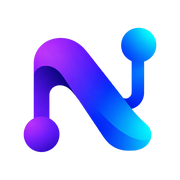
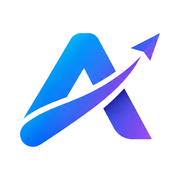
Rebrand from Nexora to Archpilot
Replace the Nexora logo with the Archpilot logo (A mark with flight arrow) and rename
the product across the app:

- brand/: original artwork, full logo, mark, wordmark and Night-mode variants (navy
  letters lightened); transparent backgrounds cut from the supplied image.
- Web app: header, sign-in page, favicons, page title and status bar; descriptor is now
  "AI-powered solution architecture advisor".
- Exports: DOCX/PDF credit and mark next to the Searce logo.
- Backend greeting, API and CLI titles; README.

diff --git a/frontend/src/components/Brand.tsx b/frontend/src/components/Brand.tsx
@@ -1,20 +1,20 @@
-// The Nexora logo. Artwork (and the original file) lives in /brand; the web copies are in /public.
+// The Archpilot logo. Artwork (and the original file) lives in /brand; the web copies are in /public.
 // The wordmark has a Night-mode variant whose navy letters are lightened to stay readable.
 
-export const PRODUCT_NAME = "Nexora";
-export const PRODUCT_DESCRIPTOR = "AI solution architecture advisor";
+export const PRODUCT_NAME = "Archpilot";
+export const PRODUCT_DESCRIPTOR = "AI-powered solution architecture advisor";
 
-/** The N mark (square image). */
-export function NexoraMark({ size = 32 }: { size?: number }) {
-  return <img className="brand-mark" src="/nexora-mark.png" width={size} height={size} alt="" />;
+/** The "A" mark with the flight arrow (square image). */
+export function ArchpilotMark({ size = 32 }: { size?: number }) {
+  return <img className="brand-mark" src="/archpilot-mark.png" width={size} height={size} alt="" />;
 }
 
-/** The "Nexora" wordmark; CSS shows the artwork that matches the Normal/Night mode. */
+/** The "Archpilot" wordmark; CSS shows the artwork that matches the Normal/Night mode. */
 export function Wordmark({ height = 24 }: { height?: number }) {
   return (
     <span className="wordmark" role="img" aria-label={PRODUCT_NAME}>
-      <img className="wordmark-light" src="/nexora-wordmark.png" alt="" style={{ height, width: "auto" }} />
-      <img className="wordmark-dark" src="/nexora-wordmark-dark.png" alt="" style={{ height, width: "auto" }} />
+      <img className="wordmark-light" src="/archpilot-wordmark.png" alt="" style={{ height, width: "auto" }} />
+      <img className="wordmark-dark" src="/archpilot-wordmark-dark.png" alt="" style={{ height, width: "auto" }} />
     </span>
   );
 }
@@ -23,7 +23,7 @@ export function Wordmark({ height = 24 }: { height?: number }) {
 export function BrandLockup({ descriptor = true }: { descriptor?: boolean }) {
   return (
     <span className="brand">
-      <span className="brand-tile"><NexoraMark size={26} /></span>
+      <span className="brand-tile"><ArchpilotMark size={30} /></span>
       <span className="brand-text">
         <Wordmark height={20} />
         {descriptor && <span className="brand-descriptor">{PRODUCT_DESCRIPTOR}</span>}

diff --git a/frontend/index.html b/frontend/index.html
@@ -7,7 +7,7 @@
     <link rel="icon" type="image/png" sizes="32x32" href="/favicon-32.png" />
     <link rel="apple-touch-icon" href="/apple-touch-icon.png" />
     <meta name="theme-color" content="#080B22" />
-    <meta name="description" content="Nexora turns a client requirement into a reviewed solution architecture, team, estimate and timeline." />
+    <meta name="description" content="Archpilot turns a client requirement into a reviewed solution architecture, team, estimate and timeline." />
     <link rel="preconnect" href="https://fonts.googleapis.com" />
     <link rel="preconnect" href="https://fonts.gstatic.com" crossorigin />
     <link rel="stylesheet"
@@ -21,7 +21,7 @@
         document.documentElement.dataset.theme = t;
       })();
     </script>
-    <title>Nexora · AI solution architecture advisor</title>
+    <title>Archpilot · AI-powered solution architecture advisor</title>
   </head>
   <body>
     <div id="root"></div>

diff --git a/frontend/src/components/LoginPage.tsx b/frontend/src/components/LoginPage.tsx
@@ -1,6 +1,6 @@
 import { useState } from "react";
 import { authApi, ROLES, type AuthConfig, type Role, type User } from "../api";
-import { NexoraMark, PRODUCT_DESCRIPTOR, Wordmark } from "./Brand";
+import { ArchpilotMark, PRODUCT_DESCRIPTOR, Wordmark } from "./Brand";
 import { Icon, Spinner } from "./Icon";
 
 const ERRORS: Record<string, string> = {
@@ -53,7 +53,7 @@ export function LoginPage({ config, error, onSignedIn }: Props) {
   return (
     <div className="login-wrap">
       <section className="card login" aria-labelledby="login-title">
-        <span className="login-logo"><NexoraMark size={88} /></span>
+        <span className="login-logo"><ArchpilotMark size={96} /></span>
         <h1 id="login-title" className="login-wordmark"><Wordmark height={44} /></h1>
         <p className="login-descriptor">{PRODUCT_DESCRIPTOR}</p>
         <p className="muted">Sign in with your {domain} Google Workspace account.</p>

diff --git a/frontend/src/styles.css b/frontend/src/styles.css
@@ -1,6 +1,6 @@
 /* "Cyber Mission Control" design from Stitch (design/stitch/DESIGN.md).
-   Brand spectrum from the Nexora logo: magenta #BB33FD, violet #6317EE, indigo #2F2AFD,
-   azure #0091FD, cyan #00E1FE. Normal (light) and Night (dark) modes are switched with
+   Brand spectrum: magenta #BB33FD, violet #6317EE, indigo #2F2AFD, azure #0091FD,
+   cyan #00E1FE; it sits alongside the Archpilot logo's sky-blue to violet gradient. Normal (light) and Night (dark) modes are switched with
    <html data-theme>; text and button pairs are checked for WCAG AA (4.5:1) in both. */
 :root {
   --brand-magenta: #BB33FD;

diff --git a/frontend/src/App.tsx b/frontend/src/App.tsx
@@ -331,7 +331,7 @@ export default function App() {
           <span className={`dot ${apiDown ? "warn" : "ok"}`} /> Advisor API: {apiDown ? "unreachable" : "online"}
         </span>
         {health && <span className="statusbar-extra">model: {activeProvider || health.provider} · log: {health.database}</span>}
-        <span className="statusbar-right">Nexora · by Searce</span>
+        <span className="statusbar-right">Archpilot · by Searce</span>
       </footer>
     </div>
   );

diff --git a/backend/advisor/orchestrator.py b/backend/advisor/orchestrator.py
@@ -78,7 +78,7 @@ class AdvisorOrchestrator(BaseAgent):
                  specialists: dict[str, LlmAgent]):
         super().__init__(
             name=name,
-            description="Nexora AI solution architecture advisor coordinator",
+            description="Archpilot AI-powered solution architecture advisor coordinator",
             analyzer=analyzer,
             reviewer=reviewer,
             estimator=estimator,
@@ -165,7 +165,7 @@ class AdvisorOrchestrator(BaseAgent):
         if analysis.get("is_requirement") is False:
             yield self._say(
                 ctx,
-                "Hi! I'm Nexora, your AI solution architecture advisor. Describe what you want to build "
+                "Hi! I'm Archpilot, your AI-powered solution architecture advisor. Describe what you want to build "
                 "and I'll analyse it, run the relevant specialist agents, review the design and "
                 "return a recommendation.\n\nFor example: *\"I need a responsive company website "
                 "with Home, About and Contact pages. Frontend only.\"*",

diff --git a/backend/advisor/export.py b/backend/advisor/export.py
@@ -19,8 +19,8 @@ from pathlib import Path
 # ------------------------------------------------------------------ branding
 LOGO = Path(__file__).parent / "assets" / "searce_logo.png"
 # Product credit in the header's right corner (the Searce logo stays the main mark on client documents).
-PRODUCT_MARK = Path(__file__).parent / "assets" / "nexora_mark.png"
-PRODUCT_CREDIT = "Nexora · AI solution architecture advisor"
+PRODUCT_MARK = Path(__file__).parent / "assets" / "archpilot_mark.png"
+PRODUCT_CREDIT = "Archpilot · AI-powered solution architecture advisor"
 # Google Sans is not freely redistributable: Word uses it when installed on the reader's machine, and the
 # PDF embeds it when the TTFs are in advisor/assets/fonts (or installed); otherwise a fallback font is used.
 FONT = "Google Sans"

diff --git a/backend/scripts/run.py b/backend/scripts/run.py
@@ -46,7 +46,7 @@ async def run_once(text: str, verbose: bool = False) -> None:
 
 
 def main() -> None:
-    p = argparse.ArgumentParser(description="Nexora — AI solution architecture advisor (CLI)")
+    p = argparse.ArgumentParser(description="Archpilot — AI-powered solution architecture advisor (CLI)")
     g = p.add_mutually_exclusive_group(required=True)
     g.add_argument("--text", help="Requirement as free text")
     g.add_argument("--file", help="Requirement as .txt, .md, .pdf or .docx")

diff --git a/backend/advisor/api.py b/backend/advisor/api.py
@@ -39,7 +39,7 @@ APP_NAME = "solution_advisor"
 MAX_UPLOAD_BYTES = 10 * 1024 * 1024
 UNSAFE_METHODS = {"POST", "PUT", "PATCH", "DELETE"}
 
-app = FastAPI(title="Nexora — AI solution architecture advisor")
+app = FastAPI(title="Archpilot — AI-powered solution architecture advisor")
 
 
 @app.middleware("http")

diff --git a/README.md b/README.md
@@ -1,6 +1,6 @@
-<img src="brand/nexora-logo.png" width="220" alt="Nexora">
+<img src="brand/archpilot-logo.png" width="360" alt="Archpilot">
 
-# Nexora — AI solution architecture advisor
+# Archpilot — AI-powered solution architecture advisor
 
 A multi-agent advisor that turns a plain-language requirement into a reviewed
 solution recommendation. Built with Google's Agent Development Kit (ADK) and
@@ -14,10 +14,10 @@ requirement ─► Analyzer ─► Agent Selector ─► Specialists (parallel) 
 
 ## Brand
 
-The product name is **Nexora**, with the descriptor "AI solution architecture advisor".
-Logo files are in [`brand/`](brand/): the original (`nexora-original.png`), the full logo,
-the N mark, and the wordmark with a dark-theme variant (its navy letters lightened).
-Client documents keep the Searce logo; Nexora appears as a small credit.
+The product name is **Archpilot**, with the descriptor "AI-powered solution architecture advisor".
+Logo files are in [`brand/`](brand/): the original (`archpilot-original.png`), the full logo and its
+dark-theme variant, the "A" mark, and the wordmark with a dark-theme variant (its navy letters lightened).
+Client documents keep the Searce logo; Archpilot appears as a small credit.
 
 ## Repository layout
 
@@ -27,7 +27,7 @@ Two independent projects:
 backend/     Python API + agents (FastAPI, Google ADK) - its own venv, .env, Dockerfile
 frontend/    React + TypeScript web app (Vite)        - its own package.json, Dockerfile
 docker-compose.yml   runs both together
-brand/       Nexora logo artwork (original, mark, wordmark, dark variant)
+brand/       Archpilot logo artwork (original, full logo, mark, wordmark, dark variants)
 ```
 
 The frontend talks to the backend only over HTTP (`/api/...`), so each can be
